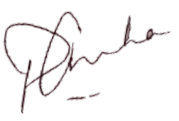
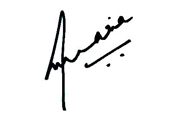
Add Sec-Gen Note

Changed region(s): [[0.0, 0.0744, 0.9497, 0.9421], [0.5866, 0.5207, 0.6425, 0.5702], [0.5866, 0.124, 0.6145, 0.1736]]

diff --git a/landing.html b/landing.html
@@ -121,10 +121,6 @@
       <paper-ripple fit></paper-ripple>
     </div></a>
                     
-<a href="http://tempoplanet.com/people/featured-stories/item/2554-the-model-united-nations-play-power-and-policy-making" target="_blank"> <div class="button raised two">
-      <div class="center" fit>TP Article</div>
-      <paper-ripple fit></paper-ripple>
-    </div></a>
                     
     <a href="http://www.thenational.ae/uae/education/hundreds-of-students-in-uae-stage-mock-un-assembly-to-learn-about-respect" target="_blank"> <div class="button raised seven">
       <div class="center" fit>National Article</div>
@@ -213,18 +209,18 @@ In 2016, CAMUN culminated spectacularly with an attendance of nearly 500 in coll
 				</div>				
 			</div>
 			<div class="row">
-            
+           
 				<div class="col-sm-12 col-md-6">
 					<div class="single-blog wow fadeInUp" data-wow-duration="700ms" data-wow-delay="300ms">
 						<div class="blog-image">
 							<a><img class="img-responsive" src="images/blog/post1.jpg" height="500" width="400" alt="" /></a>
 					  </div>
 						<div class="entry-content">							
-							<h2><font color="0000B2">Ann Mar</font><font color="#B20000">ia Pius</font></h2>
-                             <h3><font color="0000B2">Secretary</font><font color="#B20000"> General</font></h3>
+							 <a href="mailto:secretarygeneral@cambridgemun.org"><h2><font color="0000B2">Ann Mar</font><font color="#B20000">ia Pius</font></h2></a>
+                             <a href="mailto:secretarygeneral@cambridgemun.org"><h3><font color="0000B2">Secretary</font><font color="#B20000"> General</font></h3></a>
 							
 							<p align="justify"><font color="#000000">With many years of MUN experience, Ann has an impressive portfolio which is second to none. Having went for world renowned conferences like Harvard MUN & Hague she has acquired a great skill-set and leadership qualities to take CAMUN reach new heights..</font></p>
-							
+                                                                
 					  </div>
 					</div>
 				</div>
@@ -235,15 +231,32 @@ In 2016, CAMUN culminated spectacularly with an attendance of nearly 500 in coll
 							
 					  </div>
 						<div class="entry-content1">							
-							<a><h2><font color="0000B2">Inaara</font><font color="#B20000"> Latiff</font></h2></a>
-                          <h3><font color="0000B2">Director</font><font color="#B20000"> General</font></h3>
-							
+							<a href="mailto:directorgeneral@cambridgemun.org"><h2><font color="0000B2">Inaara</font><font color="#B20000"> Latiff</font></h2></a>
+                          <a href="mailto:directorgeneral@cambridgemun.org"><h3><font color="0000B2">Director</font><font color="#B20000"> General</font></h3></a>
+                                                                                                                                         
 							<p align="justify"><font color="#000000">Inaara’s enthusiasm, creativity and drive has earned her great respect amongst the everyone. Her recent work speaks volumes of her efficiency and professionalism.</font></p>						
 						</div>																	
 					</div>											
 				</div>															
 				
-
+<h2><center><font color="0000B2">Secretary Gen</font><font color="#B20000">eral Note</font></center></d></h2>
+							<p align="left"><center><font color="#000000">As the Secretary-General of CAMUN 2017, it is my distinct honor to welcome you to the sixth session of the Cambridge Model United Nations hosted by the student body of the Cambridge High School-Abu Dhabi. CAMUN’17 will be held on the 19th, 20th and 21st January 2017 in Abu Dhabi, the capital city of the United Arab Emirates.
+                                                                        <br>
+In the past, CAMUN has served as a platform for meaningful discussion, debate, and discourse for high school and university students from all around the world. This year’s conference theme - ‘Freedom from Fear’- explores the measures that can be taken to ensure people peace and security, to rid these people of the fear that constantly trouble them and what we, as a community, along with the forces of the United Nations are able to achieve in order to eradicate the fear.  <br>
+This year we have expanded and diversified the number and type of committees we offer to provide the best experience for students of all experience levels. We will be featuring six unique committees from the Historic Security Council to the United Nations Commission on Sustainable Development Goals 2030 which will explore a diverse range of topics providing an open platform for delegates to explore new issues and face new challenges. <br>
+We look forward to seeing you at CAMUN 2017 for an unforgettable experience of meeting new people, exploring international politics, and engaging in diplomatic dialogue.
+<br>
+<b>“The only real prison is fear, and the only real freedom is Freedom from Fear.” </b>   
+<br>
+– Aung San Suu Kyi (Burmese stateswoman)  
+<br>
+<br>
+Regards and thanks,
+<br>
+<img src="images/sign.png">
+<br>
+Ann Maria Pius
+</font></p></center>						
 
 		  </div>
 		</div>
